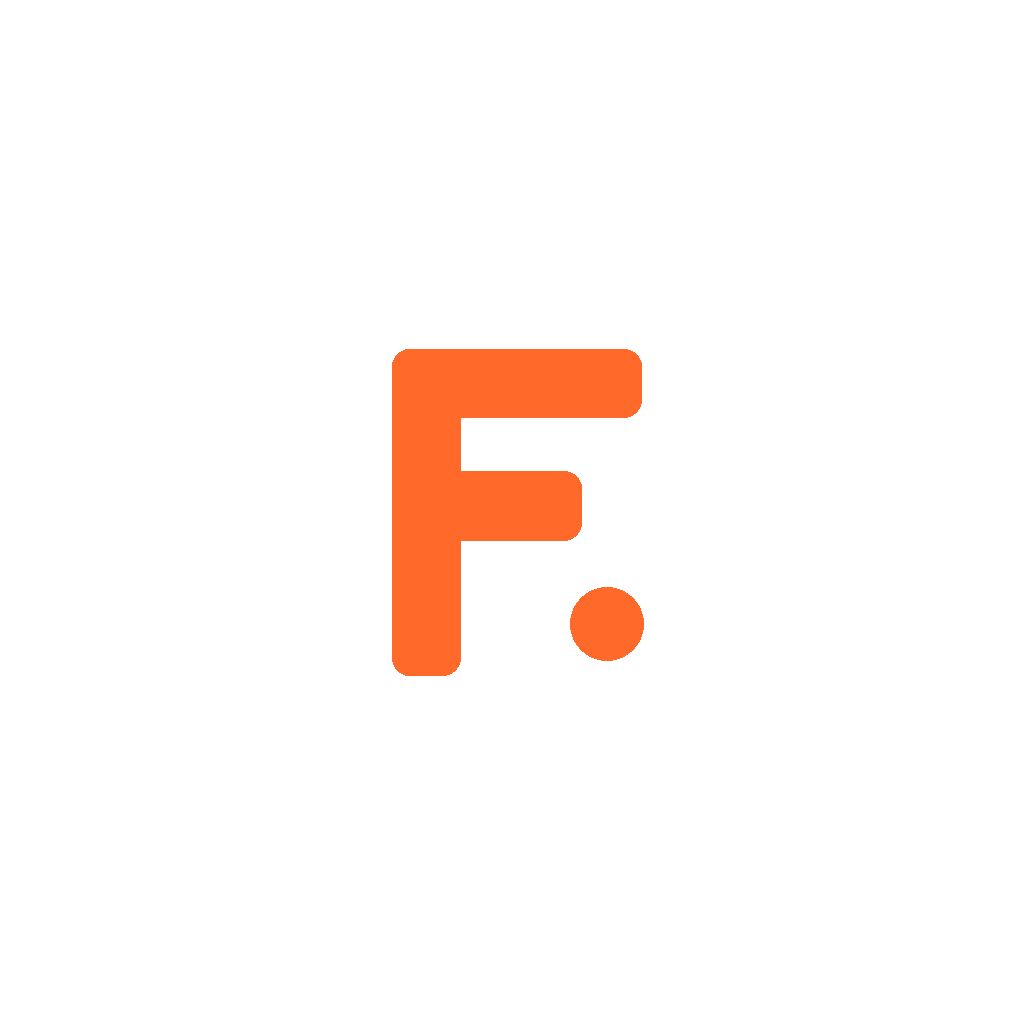
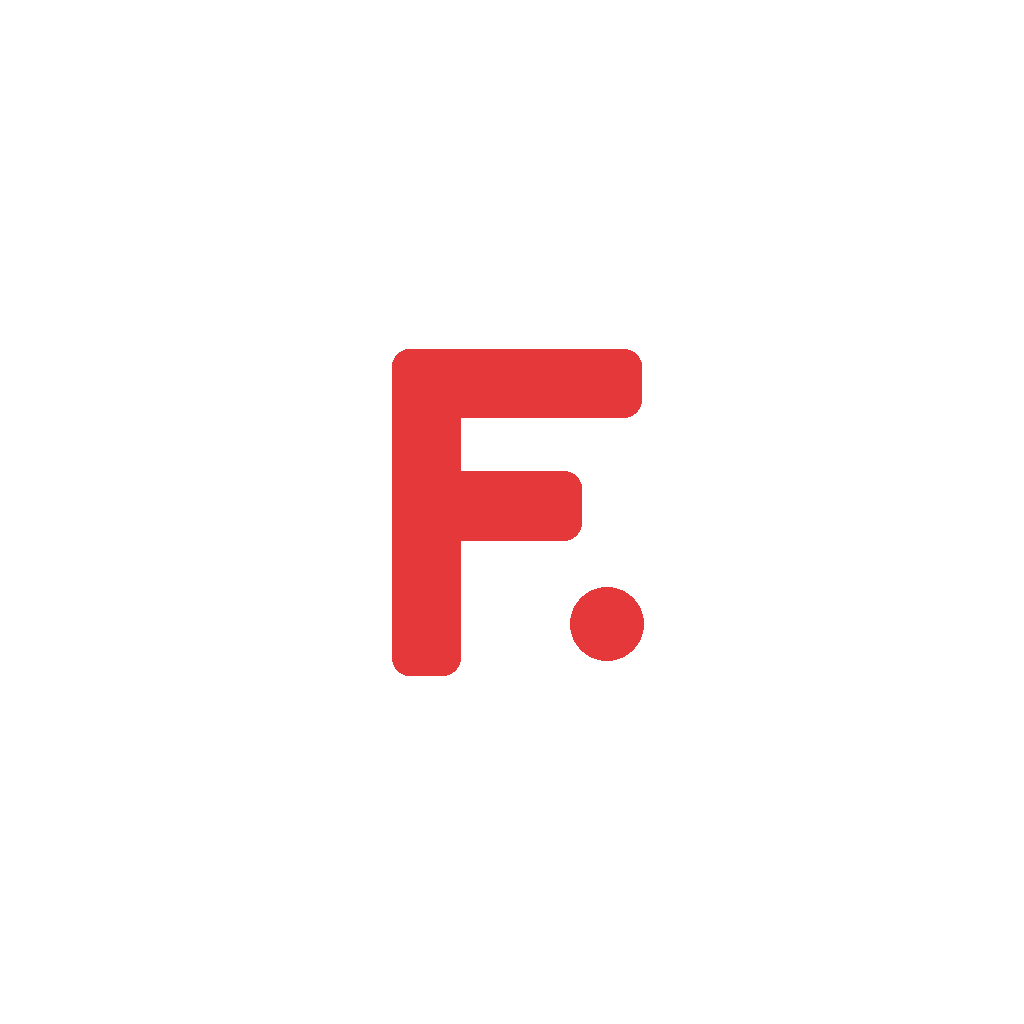
Troca o laranja por vermelho no app e nos ícones (FOR-5)
Usa dois tons, porque nenhum vermelho único tem contraste 4,5:1 com
texto branco e sobre os fundos escuros. As ações de excluir e os erros
passam a rosa, para não se confundirem com o botão principal.

Changed region(s): [[0.375, 0.3438, 0.625, 0.6875], [0.5312, 0.5625, 0.625, 0.6562]]

diff --git a/src/theme.ts b/src/theme.ts
@@ -7,14 +7,18 @@ export const colors = {
   text: '#F4F1EA',
   textDim: '#A3A8B0',
   textMute: '#6E747D',
-  accent: '#FF6A2B',
-  accentSoft: 'rgba(255,106,43,0.14)',
-  accentText: '#1A0E07',
+  // Nenhum vermelho único tem contraste 4,5:1 com texto branco e também sobre os fundos escuros:
+  // accent é para texto e ícones sobre o fundo; accentFill, para preencher com accentText por cima.
+  accent: '#F2545B',
+  accentFill: '#D62F33',
+  accentSoft: 'rgba(242,84,91,0.14)',
+  accentText: '#FFFFFF',
   success: '#3DD68C',
   successSoft: 'rgba(61,214,140,0.14)',
   warn: '#F5B83D',
-  danger: '#FF5A52',
-  dangerSoft: 'rgba(255,90,82,0.14)',
+  // Rosa, não vermelho: excluir não pode se confundir com o botão principal.
+  danger: '#FF4D8D',
+  dangerSoft: 'rgba(255,77,141,0.14)',
   protein: '#6AB0FF',
   carb: '#F5B83D',
   fat: '#E77BD6',

diff --git a/src/components/ui.tsx b/src/components/ui.tsx
@@ -144,7 +144,7 @@ export function Button({
   style?: StyleProp<ViewStyle>;
   small?: boolean;
 }) {
-  const bg = { primary: colors.accent, secondary: colors.surface3, ghost: 'transparent', danger: colors.dangerSoft }[variant];
+  const bg = { primary: colors.accentFill, secondary: colors.surface3, ghost: 'transparent', danger: colors.dangerSoft }[variant];
   const fg = { primary: colors.accentText, secondary: colors.text, ghost: colors.accent, danger: colors.danger }[variant];
   return (
     <AnimatedPressable

diff --git a/src/app/(tabs)/index.tsx b/src/app/(tabs)/index.tsx
@@ -111,7 +111,7 @@ export default function Hoje() {
                 borderRadius: 16,
                 alignItems: 'center',
                 justifyContent: 'center',
-                backgroundColor: d.done ? colors.accent : colors.surface3,
+                backgroundColor: d.done ? colors.accentFill : colors.surface3,
                 borderWidth: d.today ? 2 : 0,
                 borderColor: colors.accent,
               }}

diff --git a/src/components/RestTimer.tsx b/src/components/RestTimer.tsx
@@ -35,7 +35,7 @@ function RestButton({ title, onPress, primary }: { title: string; onPress: () =>
   return (
     <AnimatedPressable
       scaleTo={0.94}
-      style={[styles.btn, primary && { backgroundColor: colors.accent }]}
+      style={[styles.btn, primary && { backgroundColor: colors.accentFill }]}
       hitSlop={6}
       onPress={() => {
         tap();
